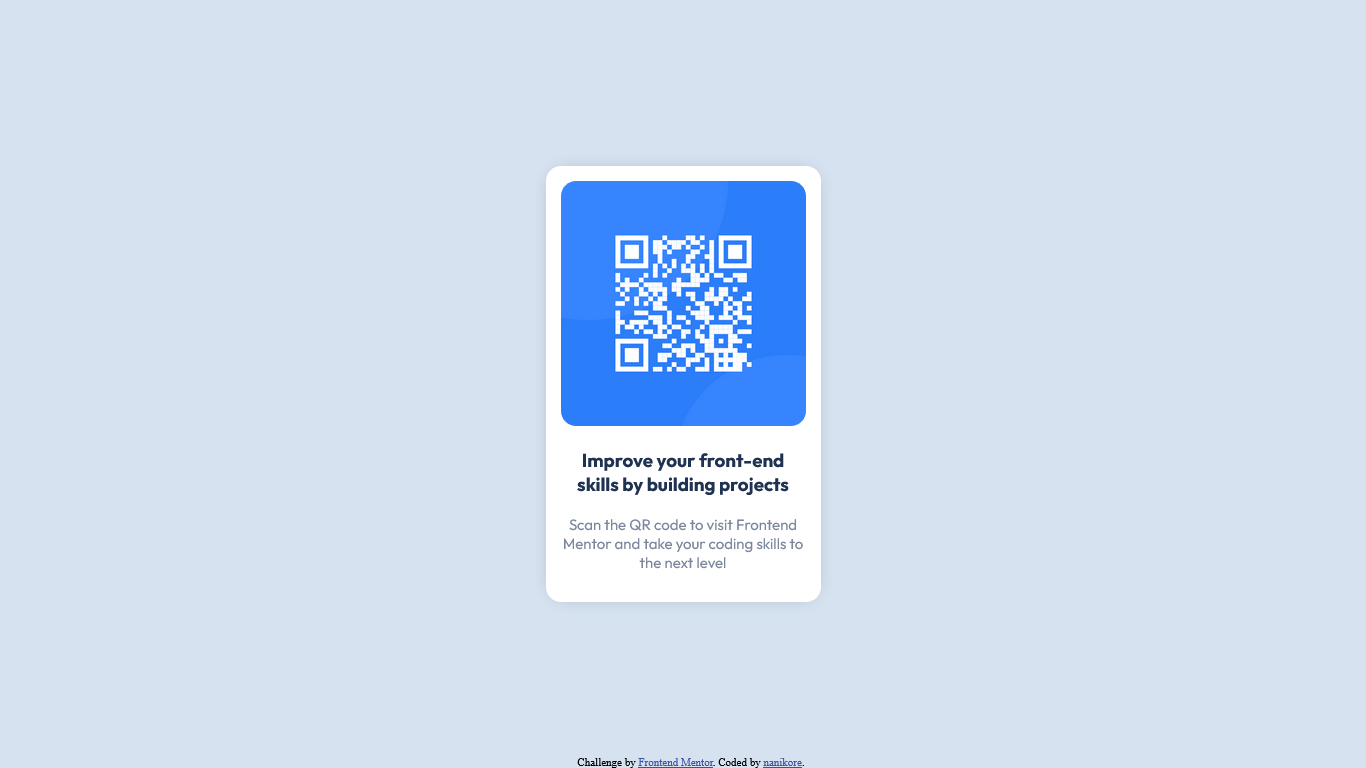
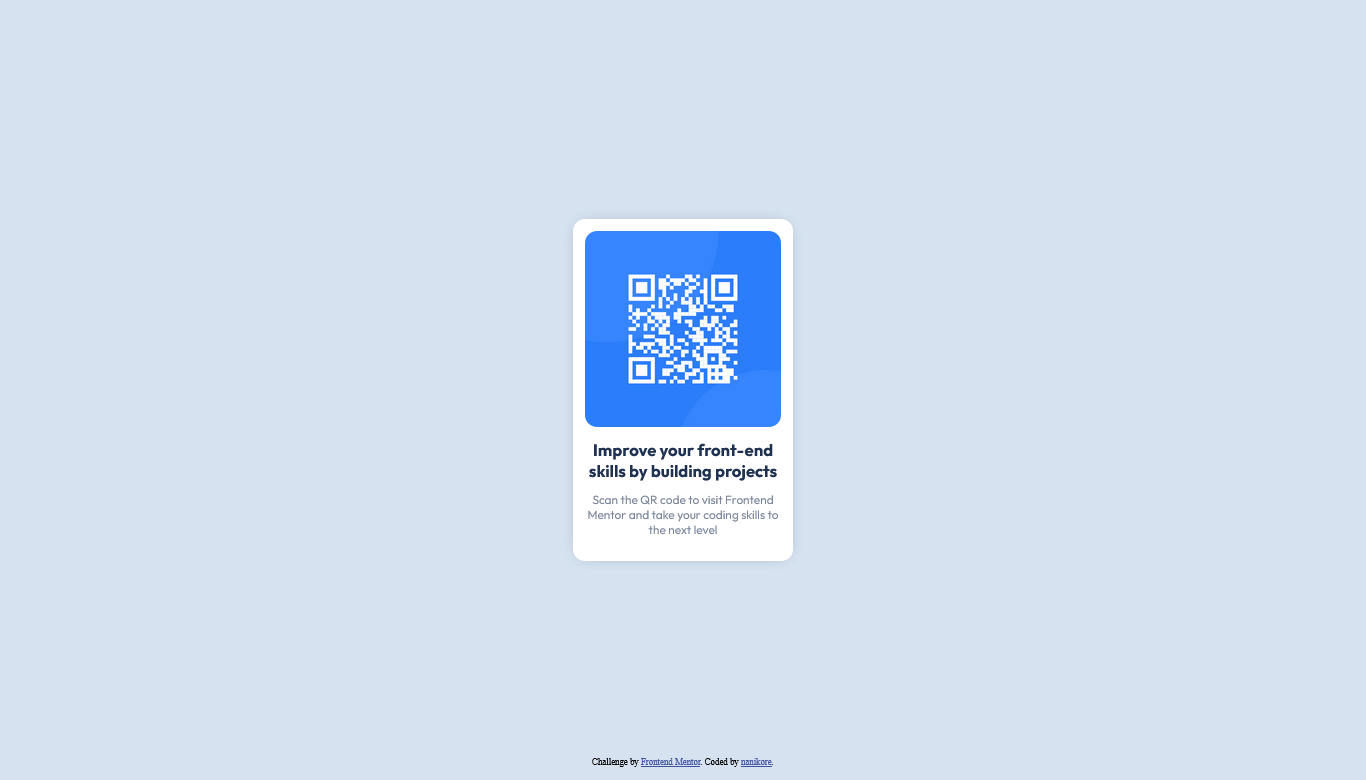
Update screenshot

Changed region(s): [[0.3997, 0.2188, 0.6149, 0.7812], [0.4305, 0.9688, 0.5842, 1.0]]

diff --git a/style.css b/style.css
@@ -77,7 +77,7 @@ p {
   width: 100%; */
   text-align: center;
   position: absolute;
-  bottom: 10px;
+  bottom: 0;
   width: 100%;
   left: 0;
 }
